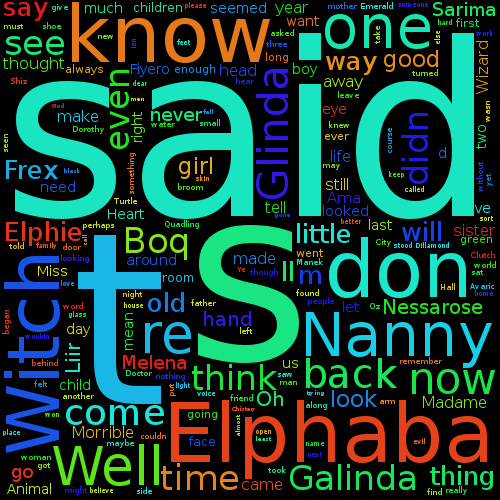
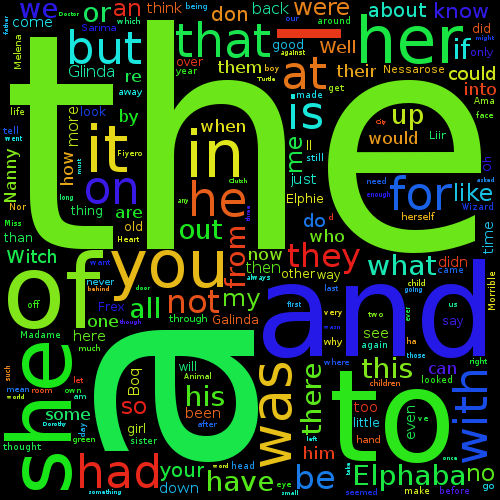
took out some stopwords

diff --git a/cloud.py b/cloud.py
@@ -3,12 +3,13 @@ from wordcloud import WordCloud
 
 def genWordCloud(filename):
     text = open(filename).read()
-    words = WordCloud(width=1000, height=1000, font_path='/usr/share/fonts/truetype/dejavu/DejaVuSans.ttf')
+    words = WordCloud(width=500, height=500, font_path='/usr/share/fonts/truetype/dejavu/DejaVuSans.ttf', stopwords=['s','t','said','m'])
     words.generate(text)
-    words.to_file(filename.split('.')[0] + '.png')
+    words.to_file(filename.split('.')[0] + '_500.png')
 
 if __name__ == '__main__':
 
     for i in range(1,15):
         genWordCloud('sources/'+str(i)+'.txt')
+
 
